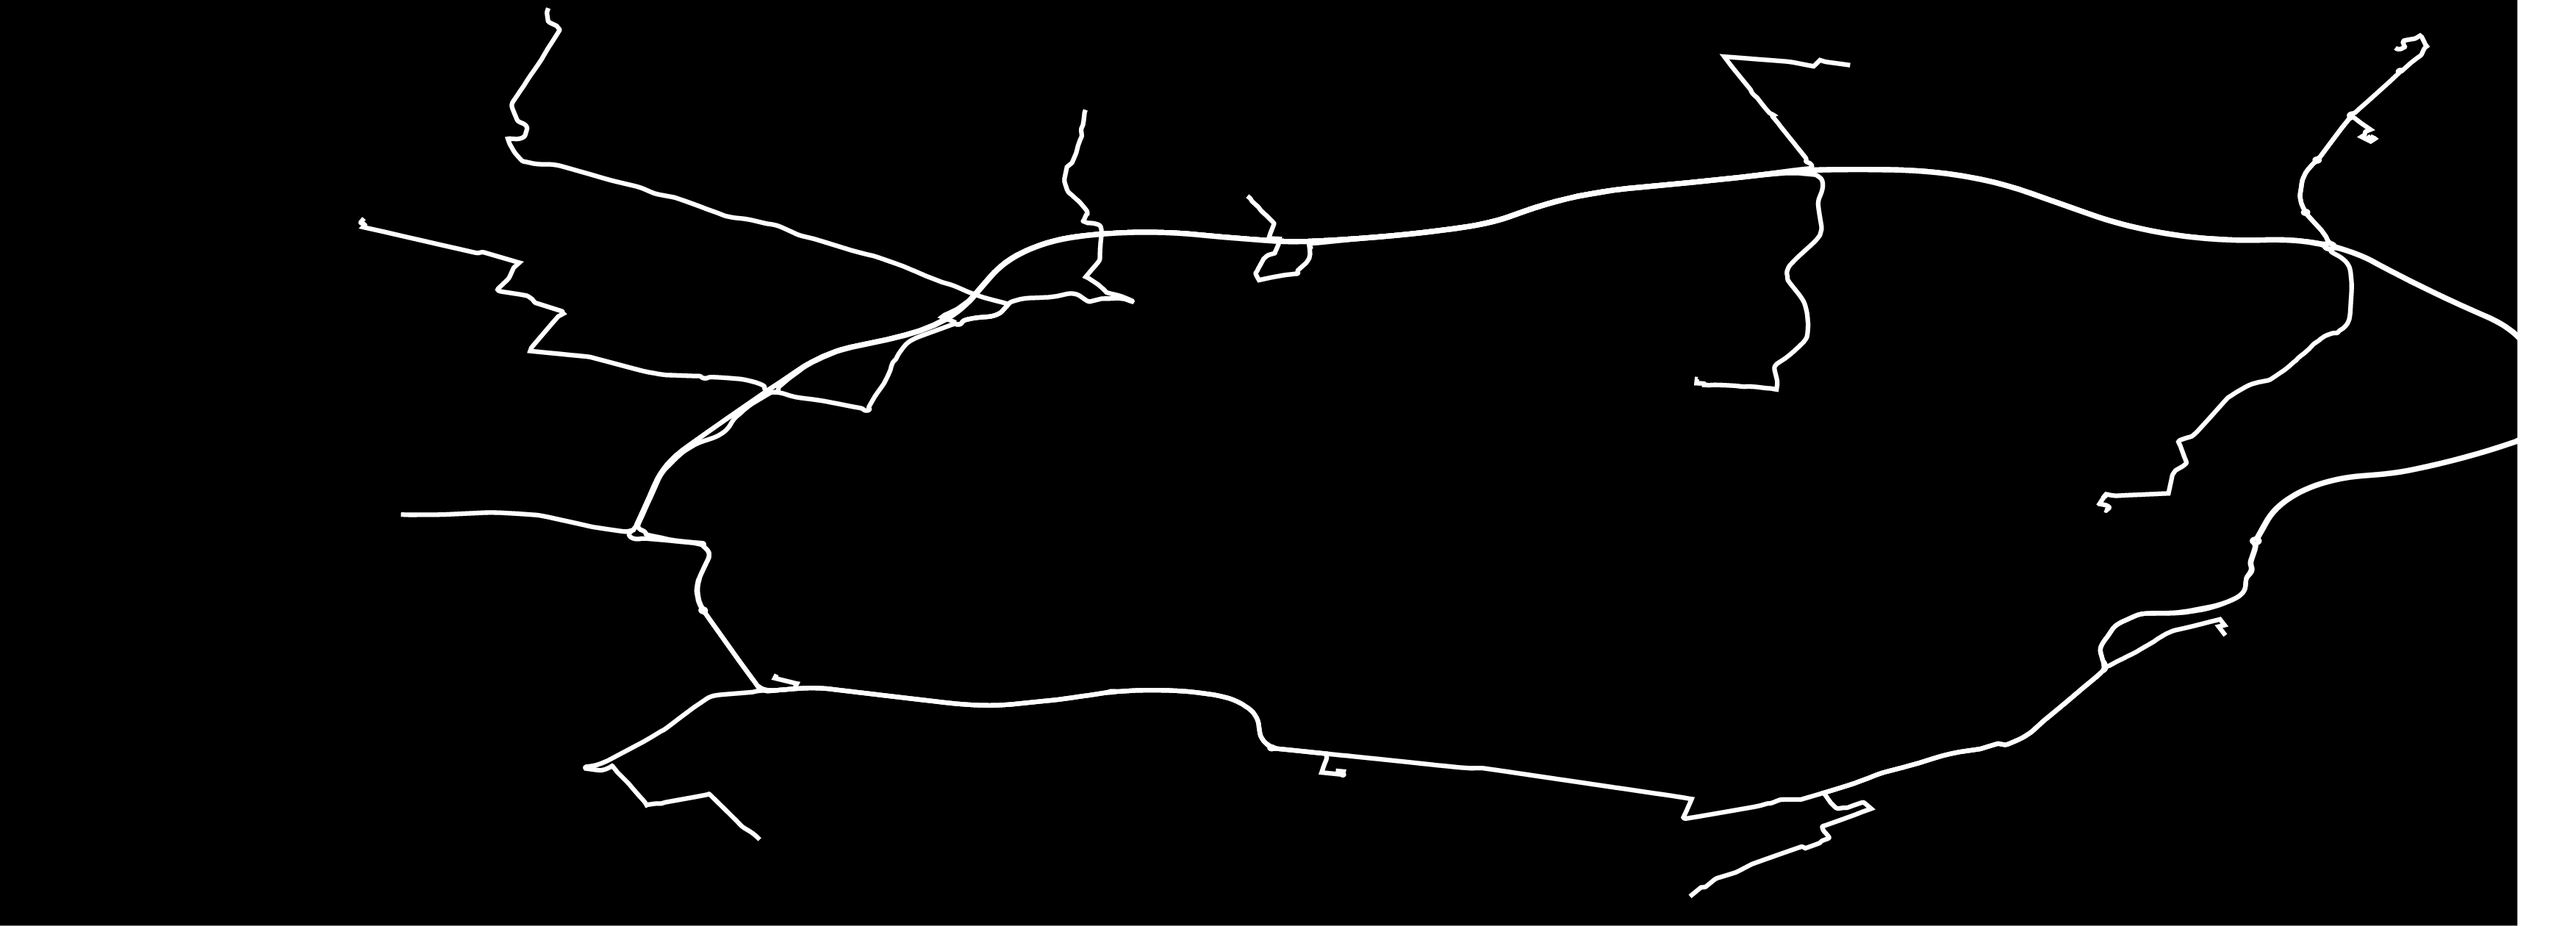
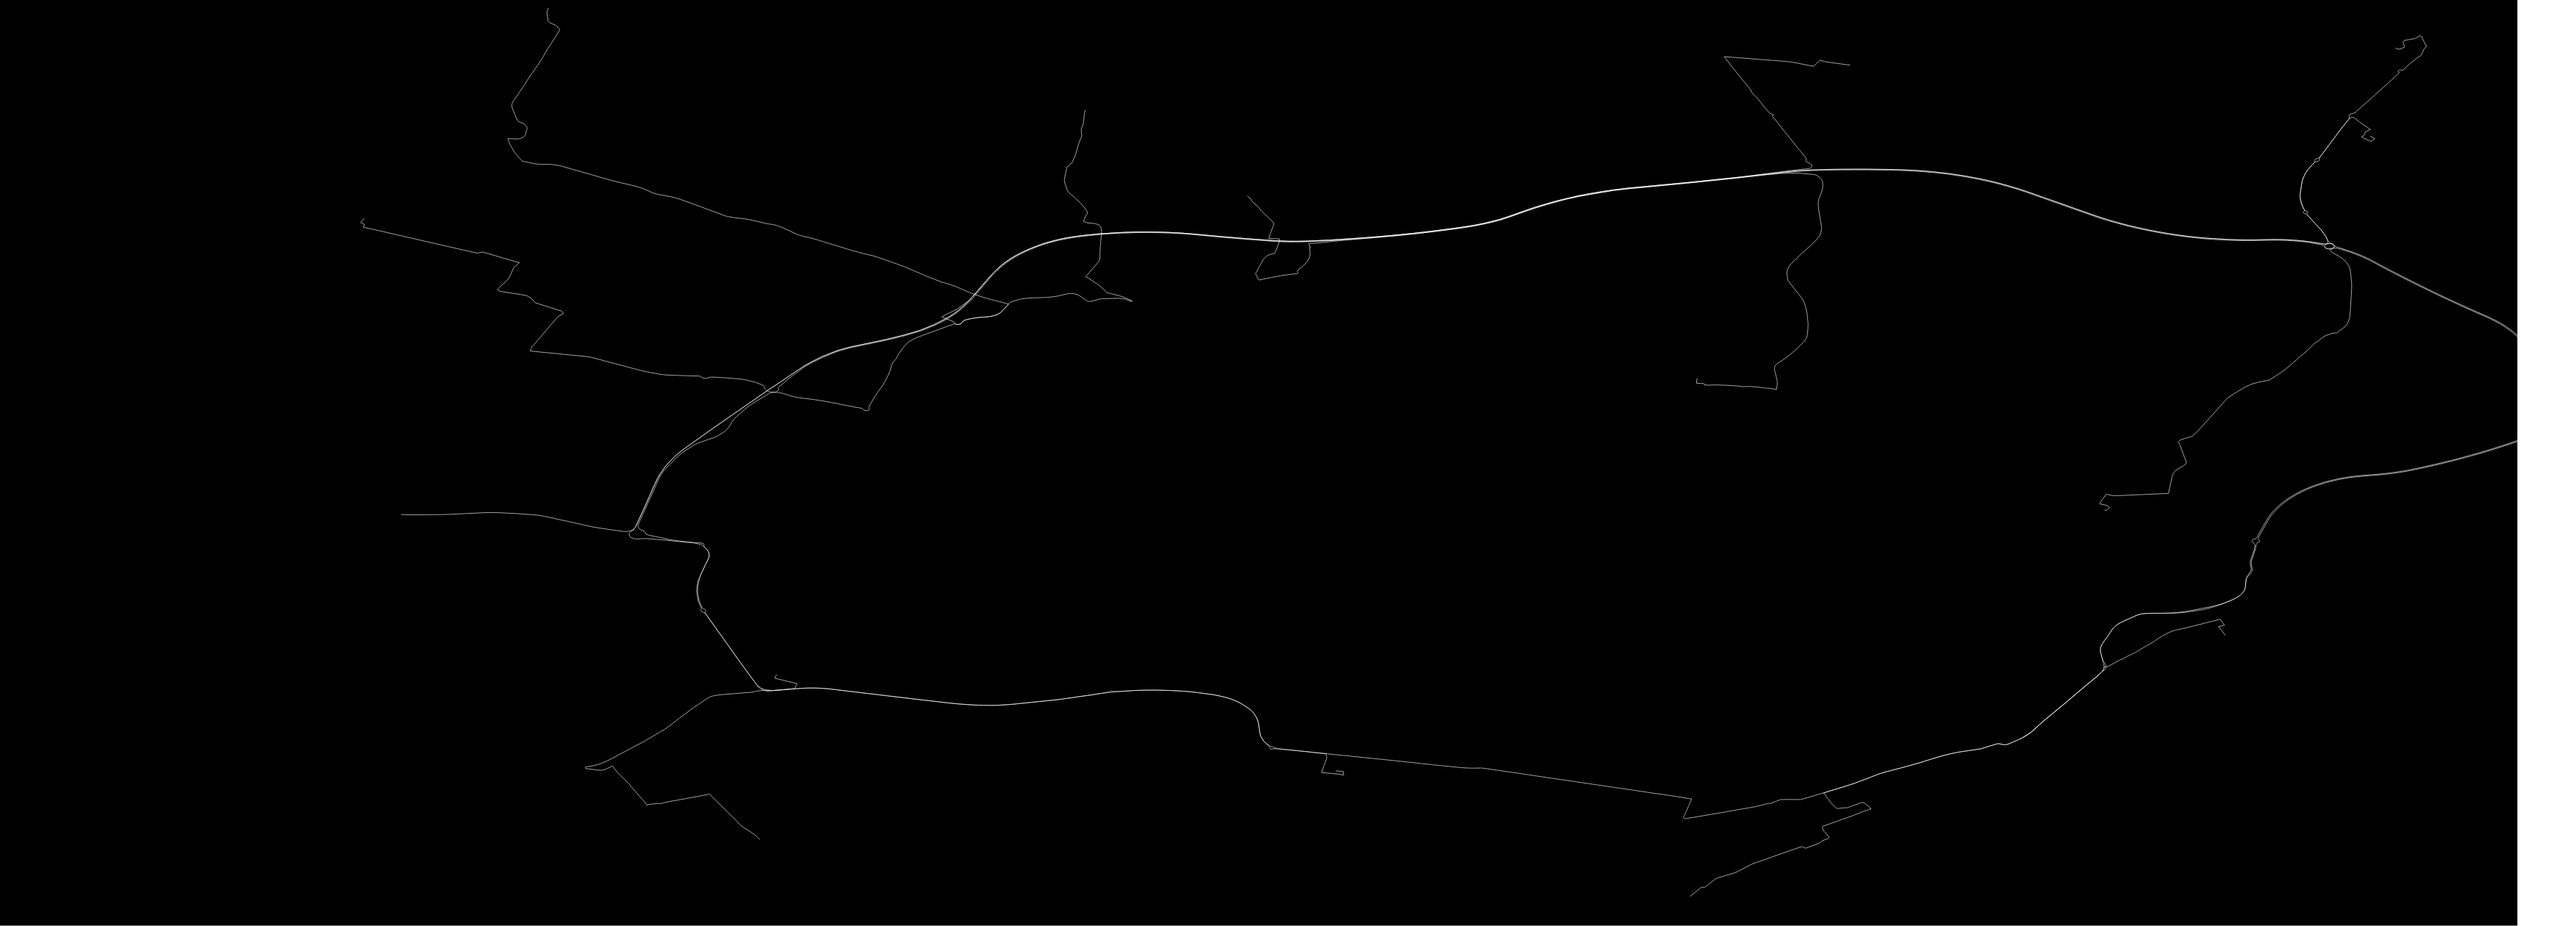
make lines thinner

diff --git a/apps/keks/backend/regions/src/bin/find_regions.rs b/apps/keks/backend/regions/src/bin/find_regions.rs
@@ -72,7 +72,7 @@ fn draw(collection: &GeometryCollection) -> Result<GrayImage, Box<dyn std::error
     white.set_color_rgba8(255, 255, 255, 255);
 
     let mut stroke = Stroke::default();
-    stroke.width = 0.005 * width.min(height);
+    stroke.width = 0.0005 * width.min(height);
 
     // anything that is white is a border and anything that is black is a region
 
